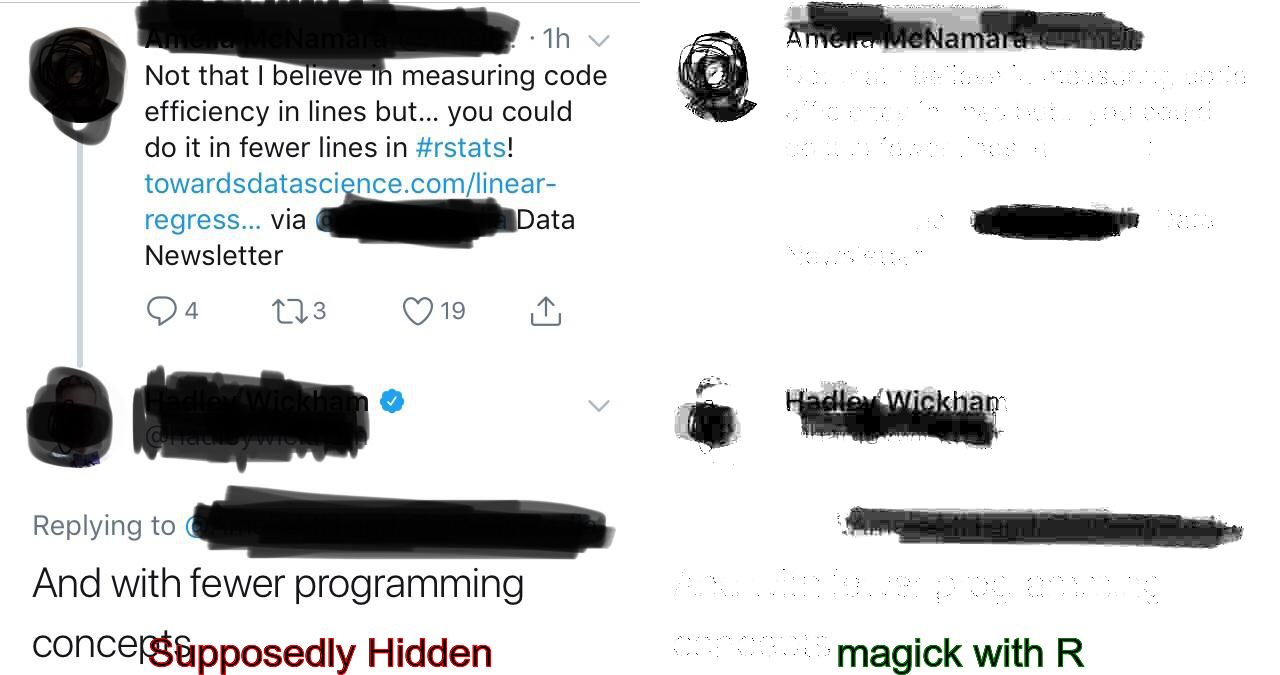
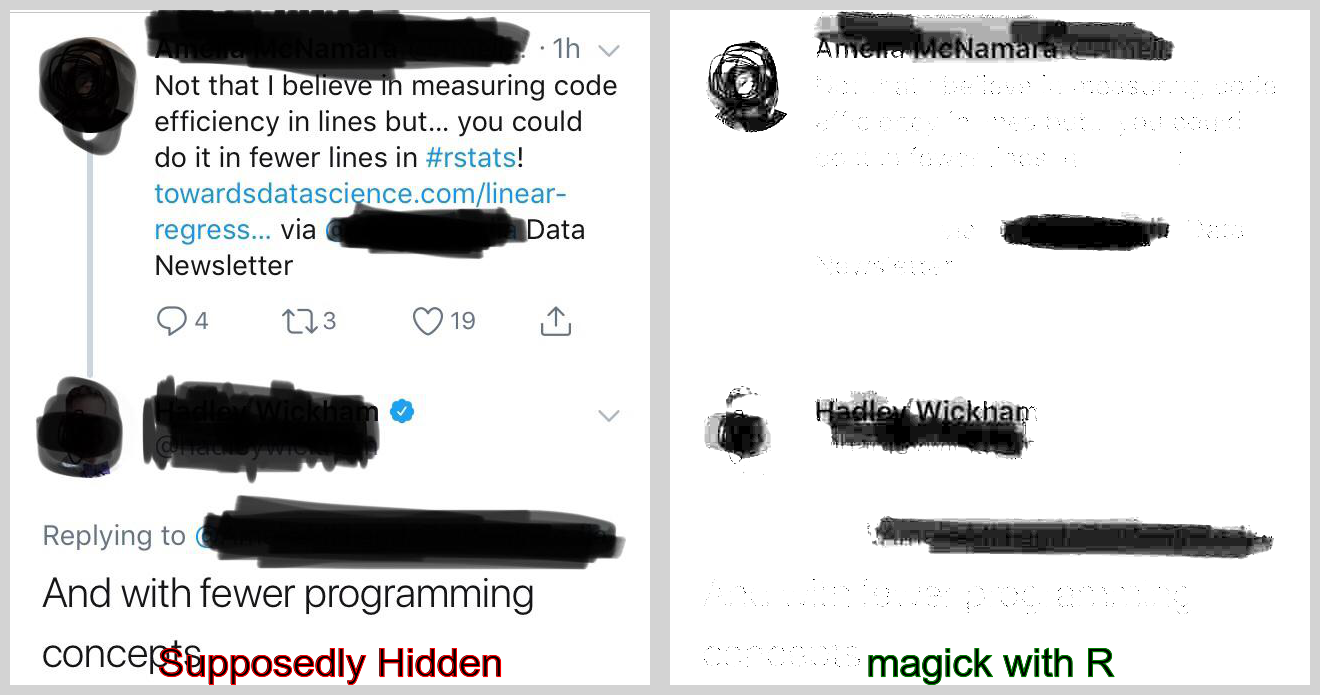
gotta run! final update!

diff --git a/Readme.md b/Readme.md
@@ -19,9 +19,9 @@ with R**
       image_quantize(max = 80)  %>% 
       image_modulate(brightness = 500)  -> new
 
-    images <- c(image %>% image_annotate("Supposedly Hidden", size = 40, gravity = "South", strokecolor = "red") , 
-                new %>%   image_annotate("magick with R", size = 40, gravity = "South", strokecolor = "green"))
+    images <- c(image %>% image_annotate("Supposedly Hidden", size = 40, gravity = "South", strokecolor = "red") %>% image_border() , 
+                new %>%   image_annotate("magick with R", size = 40, gravity = "South", strokecolor = "green") %>% image_border())
 
     image_append(images)
 
-<img src="Readme_files/figure-markdown_strict/unnamed-chunk-1-1.png" width="1280" />
+<img src="Readme_files/figure-markdown_strict/unnamed-chunk-1-1.png" width="1320" />
